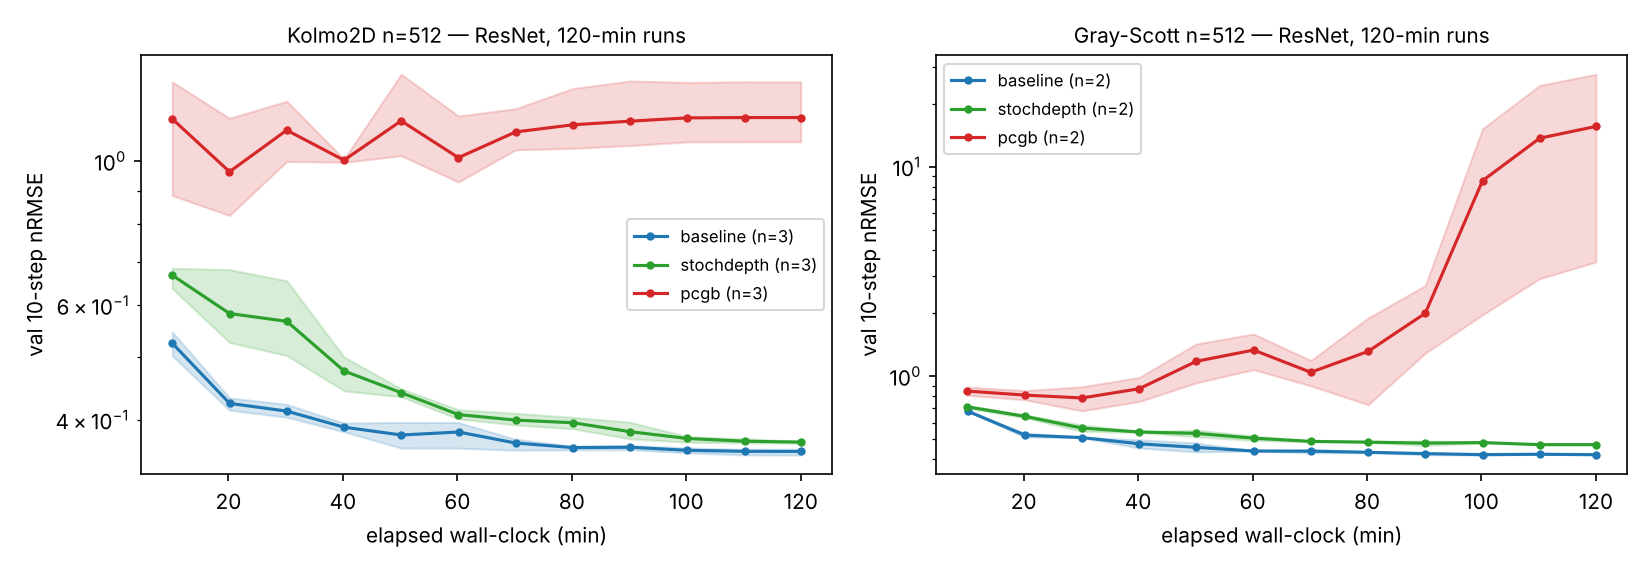
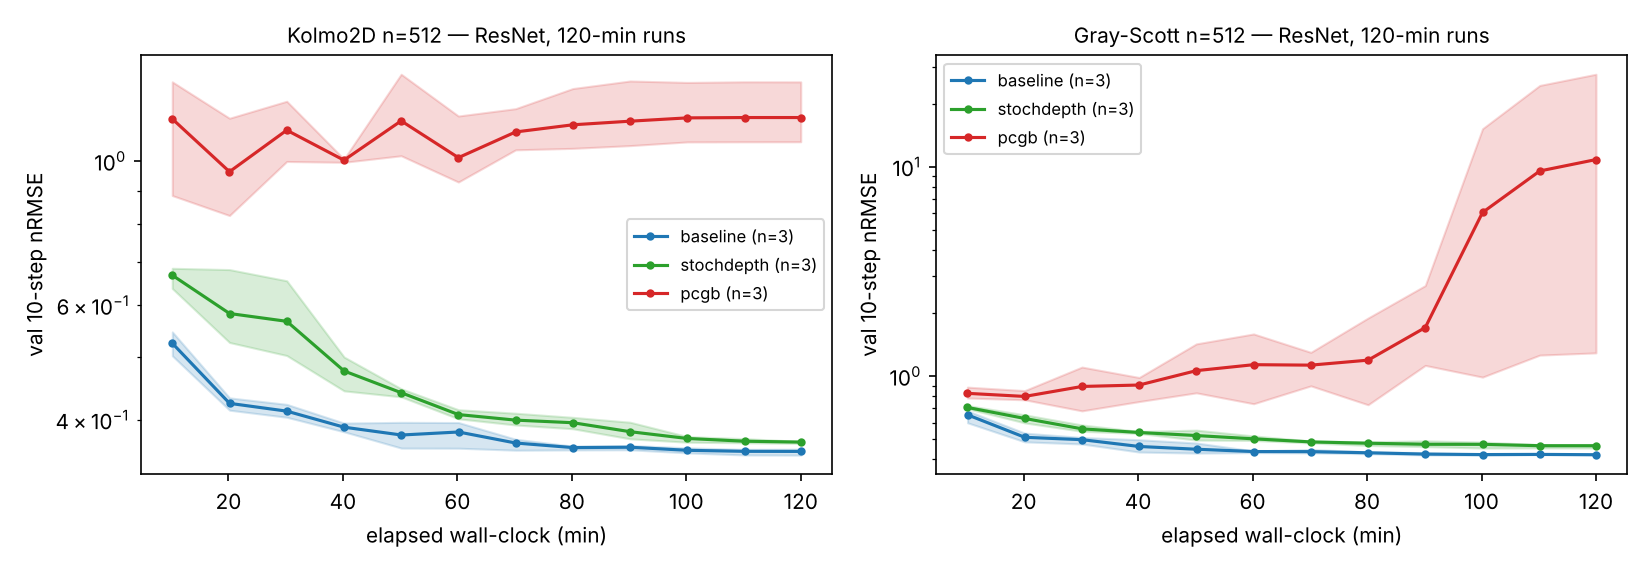
ResNet 10x budget check complete (18/18): notes, figure
Claude-Session: https://claude.ai/code/session_019ThNGGwTm5baRD7huSeyeK

Changed region(s): [[0.5873, 0.3877, 0.9891, 0.8053], [0.8964, 0.2088, 0.9891, 0.3877]]

diff --git a/experiments/pcgb_toy/resnet/notes.md b/experiments/pcgb_toy/resnet/notes.md
@@ -11,8 +11,10 @@ Code commit `24d0636` (all 183 runs were made with it; the later commits only ad
 2. **PCGB loses at matched compute, harder than for the U-Net on KS1D**: test 1.23 vs baseline 0.045 (×27; U-Net ×9), Kolmo2D 1.02 vs 0.561, denoise 0.271 vs 0.150; only Gray-Scott ties (0.651 vs 0.647). Argmax picks mask 0 (the stem→head identity net) in 68–72% of KS1D rounds.
 3. **Neither half helps**: mask_only ≈ pcgb (×30 worse than baseline on KS1D 512); AdaBoost reweight_only is neutral on KS1D/denoise/Gray-Scott and slightly worse on Kolmo2D (0.594 vs 0.561, >2σ). GB reweighting, gboost K=2/4, mask_rule/norepeat/exclude_all_drop: nothing beats baseline.
 4. **No small-n or physics specificity**: PCGB is worse than baseline in every column at n=128 too (KS1D ×28, Kolmo2D ×2.1). The ResNet baseline does not even improve with n (KS1D test 0.050/0.045/0.044; Kolmo2D 0.576/0.561/0.562): at 0.09–0.31× the U-Net's steps/s it is **compute-limited, not data-limited**, so there is no overfitting regime for a regulariser to fix.
-5. **Stochastic depth no longer helps** (p_L=0.2): worse than baseline on 7/8 columns (tie only on Gray-Scott), and p_L=0.5 is worse still (KS1D 0.186 vs 0.116). This is the main U-Net conclusion that does not transfer.
+5. **Stochastic depth no longer helps** (12-min caveat: partly a compute artefact, see 7) : at p_L=0.2 worse than baseline on 7/8 columns (tie only on Gray-Scott), and p_L=0.5 is worse still (KS1D 0.186 vs 0.116). This is the main U-Net conclusion that does not transfer.
 6. **Best config for the ResNet: plain baseline** everywhere (Gray-Scott: stochdepth/baseline tied within noise). The ResNet baseline beats the best U-Net arm on KS1D n=128/512 (0.050 vs 0.240; 0.045 vs 0.068) and Kolmo2D n=128 and denoise, loses on KS1D n=2048 and Kolmo2D n=512/2048 (U-Net stochdepth).
+
+7. **10× budget (120 min, Kolmo2D/Gray-Scott n=512):** the 12-min 2D ResNet was under-trained (~280 steps). At 120 min the baseline drops to 0.358 (Kolmo2D) / 0.421 (Gray-Scott) and beats every U-Net result (U-Net best 0.513 / 0.664). Stochdepth closes most of its gap on Kolmo2D (0.370) but not on Gray-Scott (0.465), and loses on both, so baseline stays best; PCGB gets worse with budget (Kolmo2D 1.17, Gray-Scott diverges).
 
 ### Main table — TEST split (10-step rollout nRMSE; denoise 1-step), mean ± std over 3 seeds, ResNet
 
@@ -161,6 +163,47 @@ First step with nRMSE>1 (mean over seeds):
 
 The step-10 ranking holds at long horizons. ResNet baseline has a longer horizon than the U-Net baseline (ks1d 28 vs 24.7; kolmo2d 12.3 vs 8.3), and **stochdepth's horizon lead on Kolmo2D (U-Net 15.3 vs 8.3) vanishes** (11.0 vs 12.3). On ks1d pcgb/mask_only/stochdepth rollouts explode (33% of ICs flagged |x|>20 or non-finite at step 50; baseline/reweight_only 0%); on Kolmo2D only mask_only grows energy (std ratio 1.9 at step 50; pcgb 1.0).
 
+## Long-budget check (10× = 120 min/run; jobs/resnet_long10x.txt, `resnet_long10x.py`, `figs/budget10x_curves.png`)
+
+Why: in 12 min the 2D ResNet gets only ~280 optimiser steps (0.4 steps/s), ~1/10 of the U-Net, so the 2D conclusions above may be
+early-training artefacts. 120 min gives ~3k steps (≈ the U-Net's 12-min step count). Kolmo2D and Gray-Scott, n=512, 3 seeds,
+12 intermediate evals; pcgb with `--n_rounds 100` (ResNet scoring is slow; 99/100 rounds completed). Gray-Scott seed 2 was re-run
+after a container restart killed the first attempt minutes before the end (rows from commit d0078ef; same code).
+
+### Kolmo2D n=512 (val, mean ± std over 3 seeds)
+
+| arm | 12 min | 120 min | steps (120 min) |
+|---|---|---|---|
+| baseline | 0.564 ± 0.011 | **0.358 ± 0.003** | ~3.0k |
+| stochdepth (p_L=0.2) | 0.628 ± 0.009 | 0.370 ± 0.001 | ~3.4k |
+| pcgb (100 rounds) | 1.004 ± 0.076 | 1.166 ± 0.112 | ~420k (mask-0 steps are cheap) |
+
+### Gray-Scott n=512 (val, mean ± std over 3 seeds)
+
+| arm | 12 min | 120 min | steps (120 min) |
+|---|---|---|---|
+| baseline | 0.692 ± 0.056 | **0.421 ± 0.000** | ~3.0k |
+| stochdepth (p_L=0.2) | 0.724 ± 0.025 | 0.465 ± 0.008 | ~3.3k |
+| pcgb (100 rounds) | 0.783 ± 0.020 | 10.8 ± 11.9 (27.6 / 3.50 / 1.29: diverges) | ~220k |
+
+**Curves.** Baseline and stochdepth improve monotonically and are nearly flat over the last ~20–30 min (baseline Kolmo2D
+0.353–0.360, Gray-Scott 0.421; best eval = final eval ±0.003); no overfitting. PCGB's best eval is early (Kolmo2D 0.82–0.94 at
+20–60 min, Gray-Scott 0.68–0.77) and it ends worse. On Kolmo2D it collapses onto mask 0 (identity net) in 84–85% of rounds; on
+Gray-Scott it keeps switching (42–51% mask 0, ~70 switches, 15 distinct masks) and the rollout diverges late in training.
+
+**Conclusions.**
+- The 12-min 2D ResNet numbers were badly under-trained: baseline improves by 37–39% from 12 to 120 min. The 12-min rows above
+  describe early training on the 2D sets, not converged behaviour.
+- Stochdepth's failure on the ResNet was partly a compute artefact: the gap to baseline shrinks from 0.064 to 0.012 on Kolmo2D,
+  but on Gray-Scott it grows from 0.032 to 0.044. Baseline still wins on both by > 2× the larger seed std, so
+  the sign does not flip and the ResNet best config stays **plain baseline**.
+- PCGB gets *worse* with more training (Kolmo2D 1.00 → 1.17; Gray-Scott diverges). The more-budget-helps-PCGB effect seen on the
+  U-Net (0.92 → 0.80 Kolmo2D) does not hold here.
+- **ResNet vs U-Net:** the 120-min ResNet baseline beats every U-Net result on the 2D sets: Kolmo2D 0.358 vs U-Net stochdepth 0.530
+  (12 min) / 0.513 (120 min); Gray-Scott 0.421 vs U-Net stochdepth 0.664 (12 min; no U-Net 120-min Gray-Scott run). At roughly
+  matched optimiser steps (ResNet 120 min ≈ U-Net 12 min ≈ 3k steps) the ResNet is ~30% better, so the gain is architectural,
+  not just more steps. It costs ~10× more wall-clock per step on this CPU.
+
 ## Test split
 `final_test.py --out_dir resnet`: for every Phase-1 cell, saved models re-evaluated on val (matches the logged metric to 1e-6 for all runs; none skipped) then on test. Table at the top of this file; details in `final_table.md`. No selection used test.
 
@@ -203,4 +246,4 @@ Best arm per column (test mean): ks1d128: U=baseline R=baseline; ks1d512: U=base
 - **Kolmo2D predictability horizon**: U-Net stochdepth extended it (15.3 vs 8.3 steps); on the ResNet the baseline already has 12.3 and stochdepth does not extend it.
 - **Lesion structure**: Kolmo2D/denoise were "deep paths unused / mild" on the U-Net; on the ResNet they show a smooth Veit-like degradation with every block carrying some signal, while the gradient decays monotonically with depth. KS1D is a cliff on both.
 - **PCGB on denoise** is less bad on the ResNet (×1.8 vs ×1.9 baseline) and ties on Gray-Scott; on KS1D/Kolmo2D it is worse (×2 on KS1D). gboost later stages help a little on KS1D (not for the U-Net).
-- Caveat on all of the above: the ResNet arm is at ~0.1–0.3× the U-Net's optimiser steps under equal wall-clock; with a GPU-like budget (equal steps) the ResNet would presumably leave the compute-limited regime and the stochdepth result could change. Not tested.
+- Caveat on all of the above: the ResNet arm is at ~0.1–0.3× the U-Net's optimiser steps under equal wall-clock. **Tested at 10× budget (see Long-budget check):** with ~3k steps the 2D ResNet baseline improves by ~38% and beats every U-Net result; stochdepth mostly catches up on Kolmo2D (0.370 vs 0.358) but still loses, so "stochdepth does not transfer" holds in sign but its 12-min size on Kolmo2D was a compute artefact.
